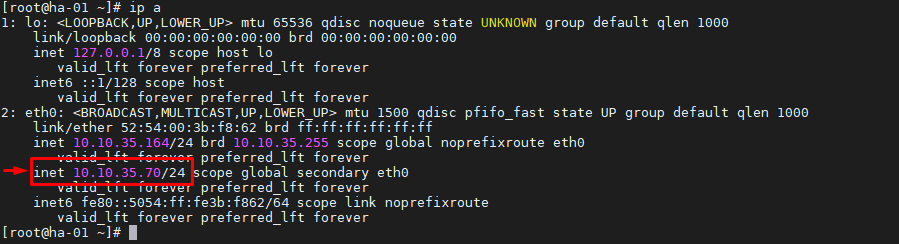
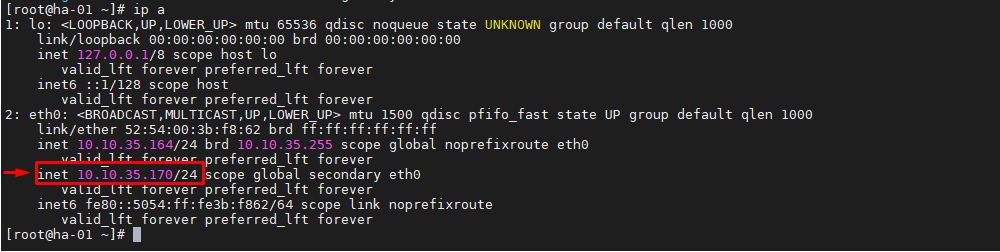
keepalived

Changed region(s): [[0.0, 0.0, 1.0, 1.0]]

diff --git a/HaiDD/HA/keepalive/lab_keepalived.md b/HaiDD/HA/keepalive/lab_keepalived.md
@@ -186,3 +186,12 @@ systemctl enable keepalived
 Kiểm tra node1, ta sẽ thấy IP VIP do keepalived quản lý:
 
 <img src="..\images\keepalive\Screenshot_5.png">
+
+## Kiểm tra
+Truy cập IP VIP: 10.10.35.170, ta sẽ thấy nội dung của node1
+
+<img src="..\images\keepalive\Screenshot_6.png">
+
+Tắt node1. Sau đó, reload lại trang. Ta sẽ thấy nội dung của node2
+
+<img src="..\images\keepalive\Screenshot_7.png">
